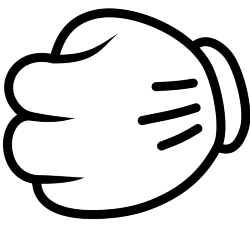
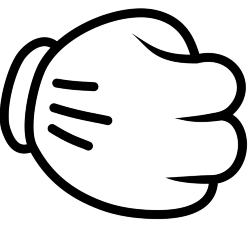
workin on canvas

Changed region(s): [[0.0, 0.0306, 1.0, 0.9782], [0.196, 0.3362, 0.392, 0.3974]]

diff --git a/server/rpsGame.js b/server/rpsGame.js
@@ -1,8 +1,9 @@
 class RPSGame {
     // these players are the socket connections
+    // arrays would've been cleaner
     constructor(player1, player2) {
-        this._player1 = player1;
-        this._player2 = player2;
+        this._player1 = player1; // queued player
+        this._player2 = player2; // last player to connect
 
         this._player1Choice = null;
         this._player2Choice = null;
@@ -13,14 +14,14 @@ class RPSGame {
 
         // event listener for player1 choice
         this._player1.on('choice', (choice) => {
-            //this._sendChoiceTo1(choice); might need for canvas functionality
-            this._onChoice1(choice);
+            this._sendChoiceToP2(choice);
+            this._onChoiceP1(choice);
         });
 
-        // event listener for player1 choice
+        // event listener for player2 choice
         this._player2.on('choice', (choice) => {
-            //this._sendChoiceTo2(choice); might need for canvas functionality
-            this._onChoice2(choice);
+            this._sendChoiceToP1(choice);
+            this._onChoiceP2(choice);
         });
     }
 
@@ -35,30 +36,30 @@ class RPSGame {
     }
 
     // feedback for players to know that their choice was registered
-    _onChoice1(choice) {
-        if (this._player1Choice == null) {
-            this._player1Choice = choice;
-            this._sendPlayer1(`You chose ${choice}.`);
-        } else {
-            this._sendPlayer1(`Your already chose ${this._player1Choice}.`);
-        }
+    _onChoiceP1(choice) {
+        this._player1Choice = choice;
+        this._sendPlayer1(`You chose ${choice}.`);
 
         this._endGame();
     }
 
-    _onChoice2(choice) {
-        if (this._player2Choice == null) {
-            this._player2Choice = choice;
-            this._sendPlayer2(`You chose ${choice}.`);
-        } else {
-            this._sendPlayer2(`Your already chose ${this._player2Choice}.`);
-        }
+    _onChoiceP2(choice) {
+        this._player2Choice = choice;
+        this._sendPlayer2(`You chose ${choice}.`);
 
         this._endGame();
+    }
+
+    // send opponent's choice to the other player
+    _sendChoiceToP1(choice) {
+        this.player2.emit('opponentChose', choice);
+    }
+
+    _sendChoiceToP2() {
+        this.player1.emit('opponentChose', choice);
     }
 
     _winConditions(choice1, choice2) {
-
         // Game is a draw
         if (choice1 == choice2) {
             this._sendPlayer1('Game is a draw!');

diff --git a/static/rpsClient.js b/static/rpsClient.js
@@ -49,16 +49,23 @@ const addButtonListeners = function() {
     ['Rock', 'Paper', 'Scissors'].forEach(function(id) {
         const button = document.getElementById(id);
         button.addEventListener('click', function() {
+            imgP1.src = '../static/img/' + id + '250.png';
             socket.emit('choice', id);
             gameStart = true;
         });
     });
 };
 
+socket.on('opponentChose', function(choice) {
+    imgP2.src = '../static/img/' + choice + 'Flipped250.png';
+});
+
 // Animation loop before the game start
 function logoLoop() {
     if (gameStart) {
-        context.translate(-canvas.width/2, -canvas.height/2);
+        context.resetTransform();
+        context.clearRect(0, 0, canvas.width, canvas.height);
+        context.resetTransform();
         gameLoop();
     } else {
         degree = 0.5;
@@ -69,10 +76,16 @@ function logoLoop() {
     }
 }
 
+function displayChoices() {
+    context.clearRect(0, 0, canvas.width, canvas.height);
+    context.drawImage(imgP1, canvas.width / 8 , (canvas.height / 2) - (imgP1.height / 2));
+    context.drawImage(imgP2, canvas.width / 8, (canvas.height / 2) - (imgP2.height / 2));
+}
+
 // Main animation loop for the graphical parts of the game
 function gameLoop() {
-    
-    context.clearRect(0, 0, canvas.width, canvas.height);
+    displayChoices();
+
     animation = requestAnimationFrame(gameLoop);
 }
 
